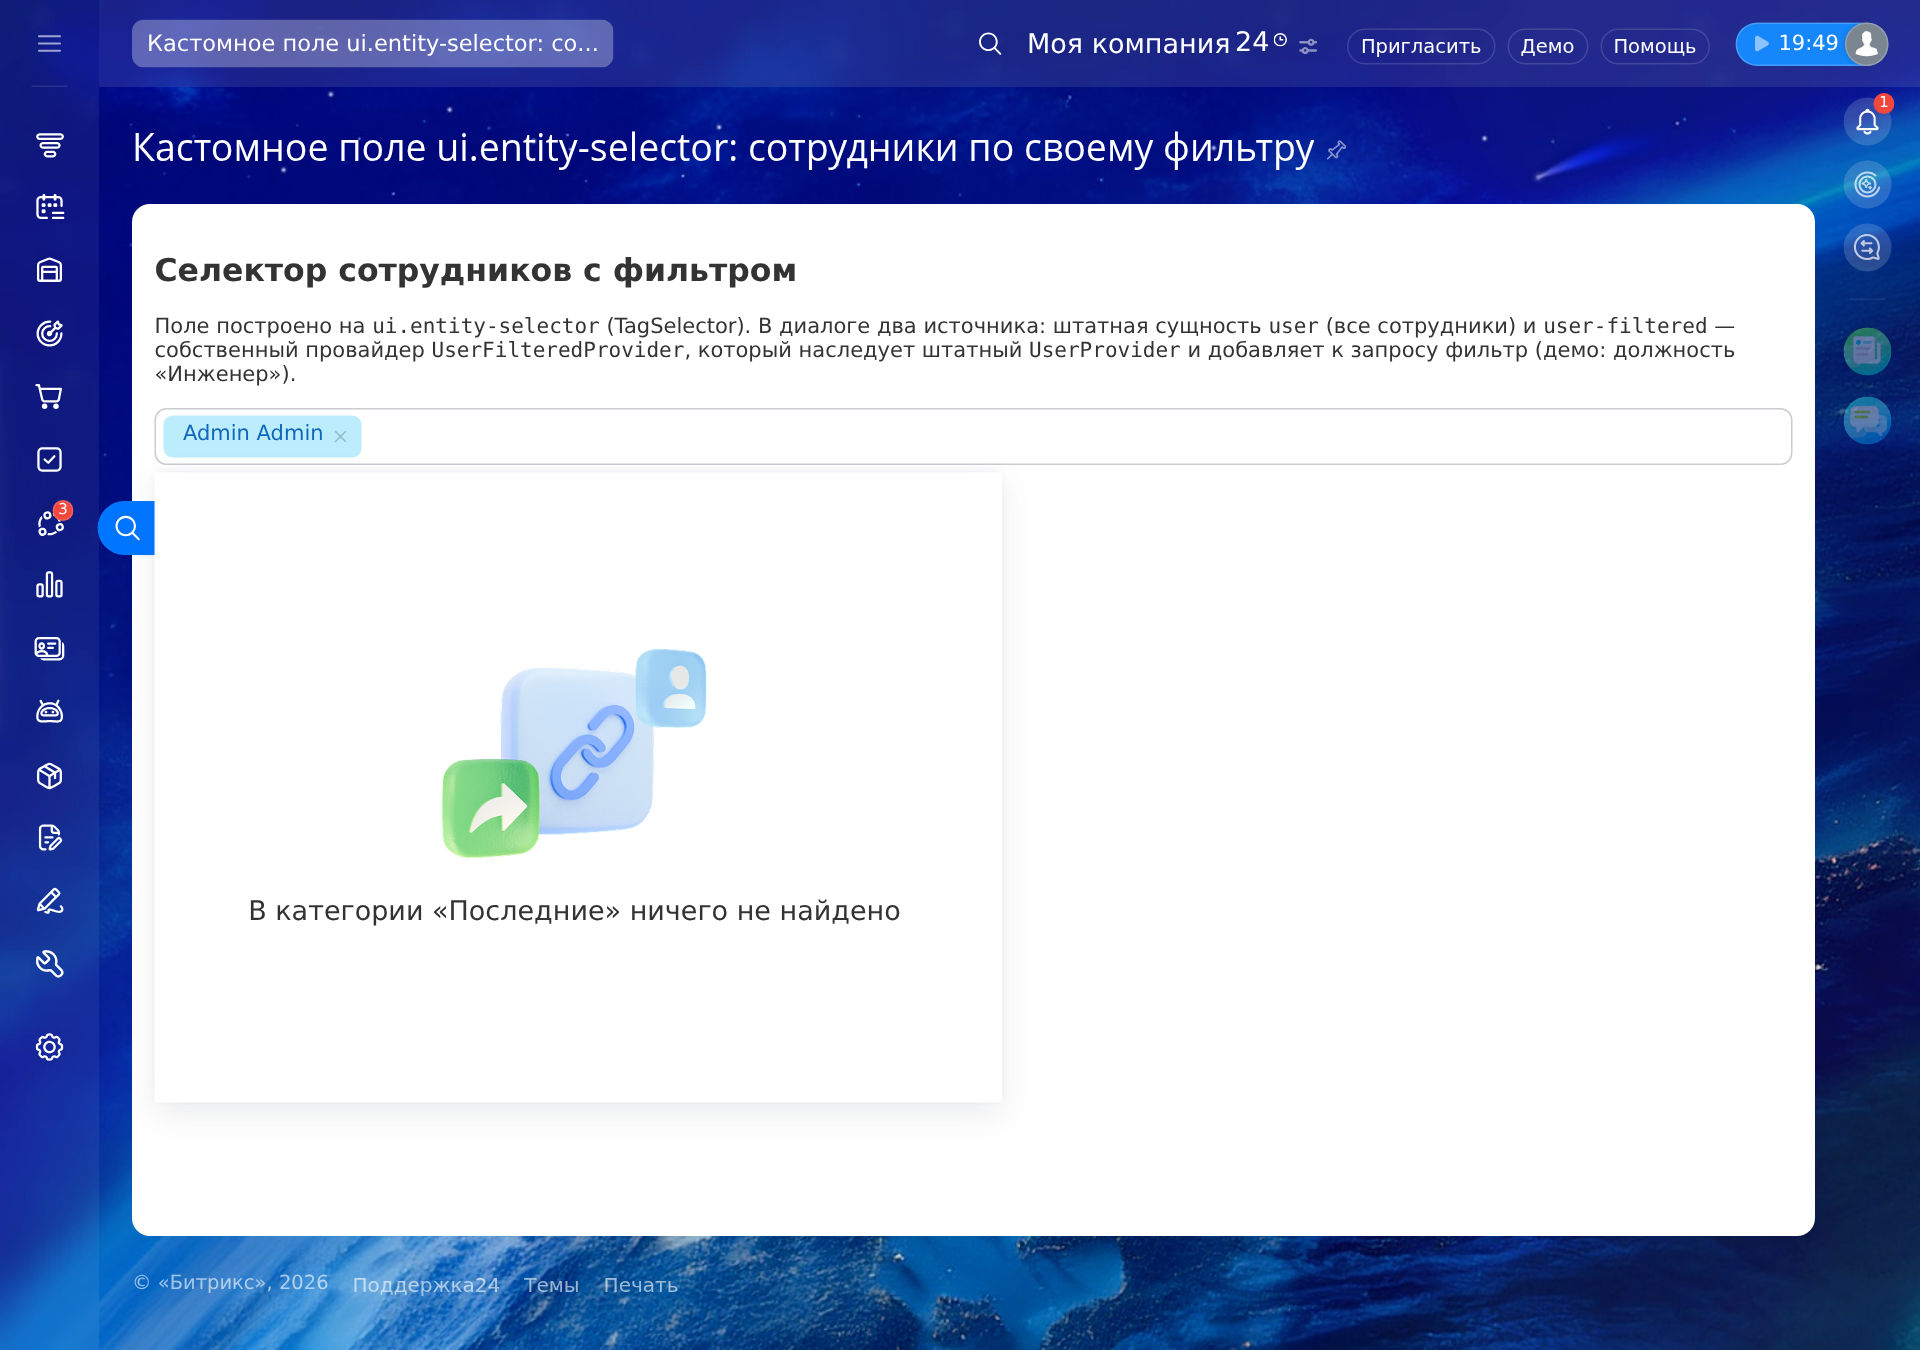
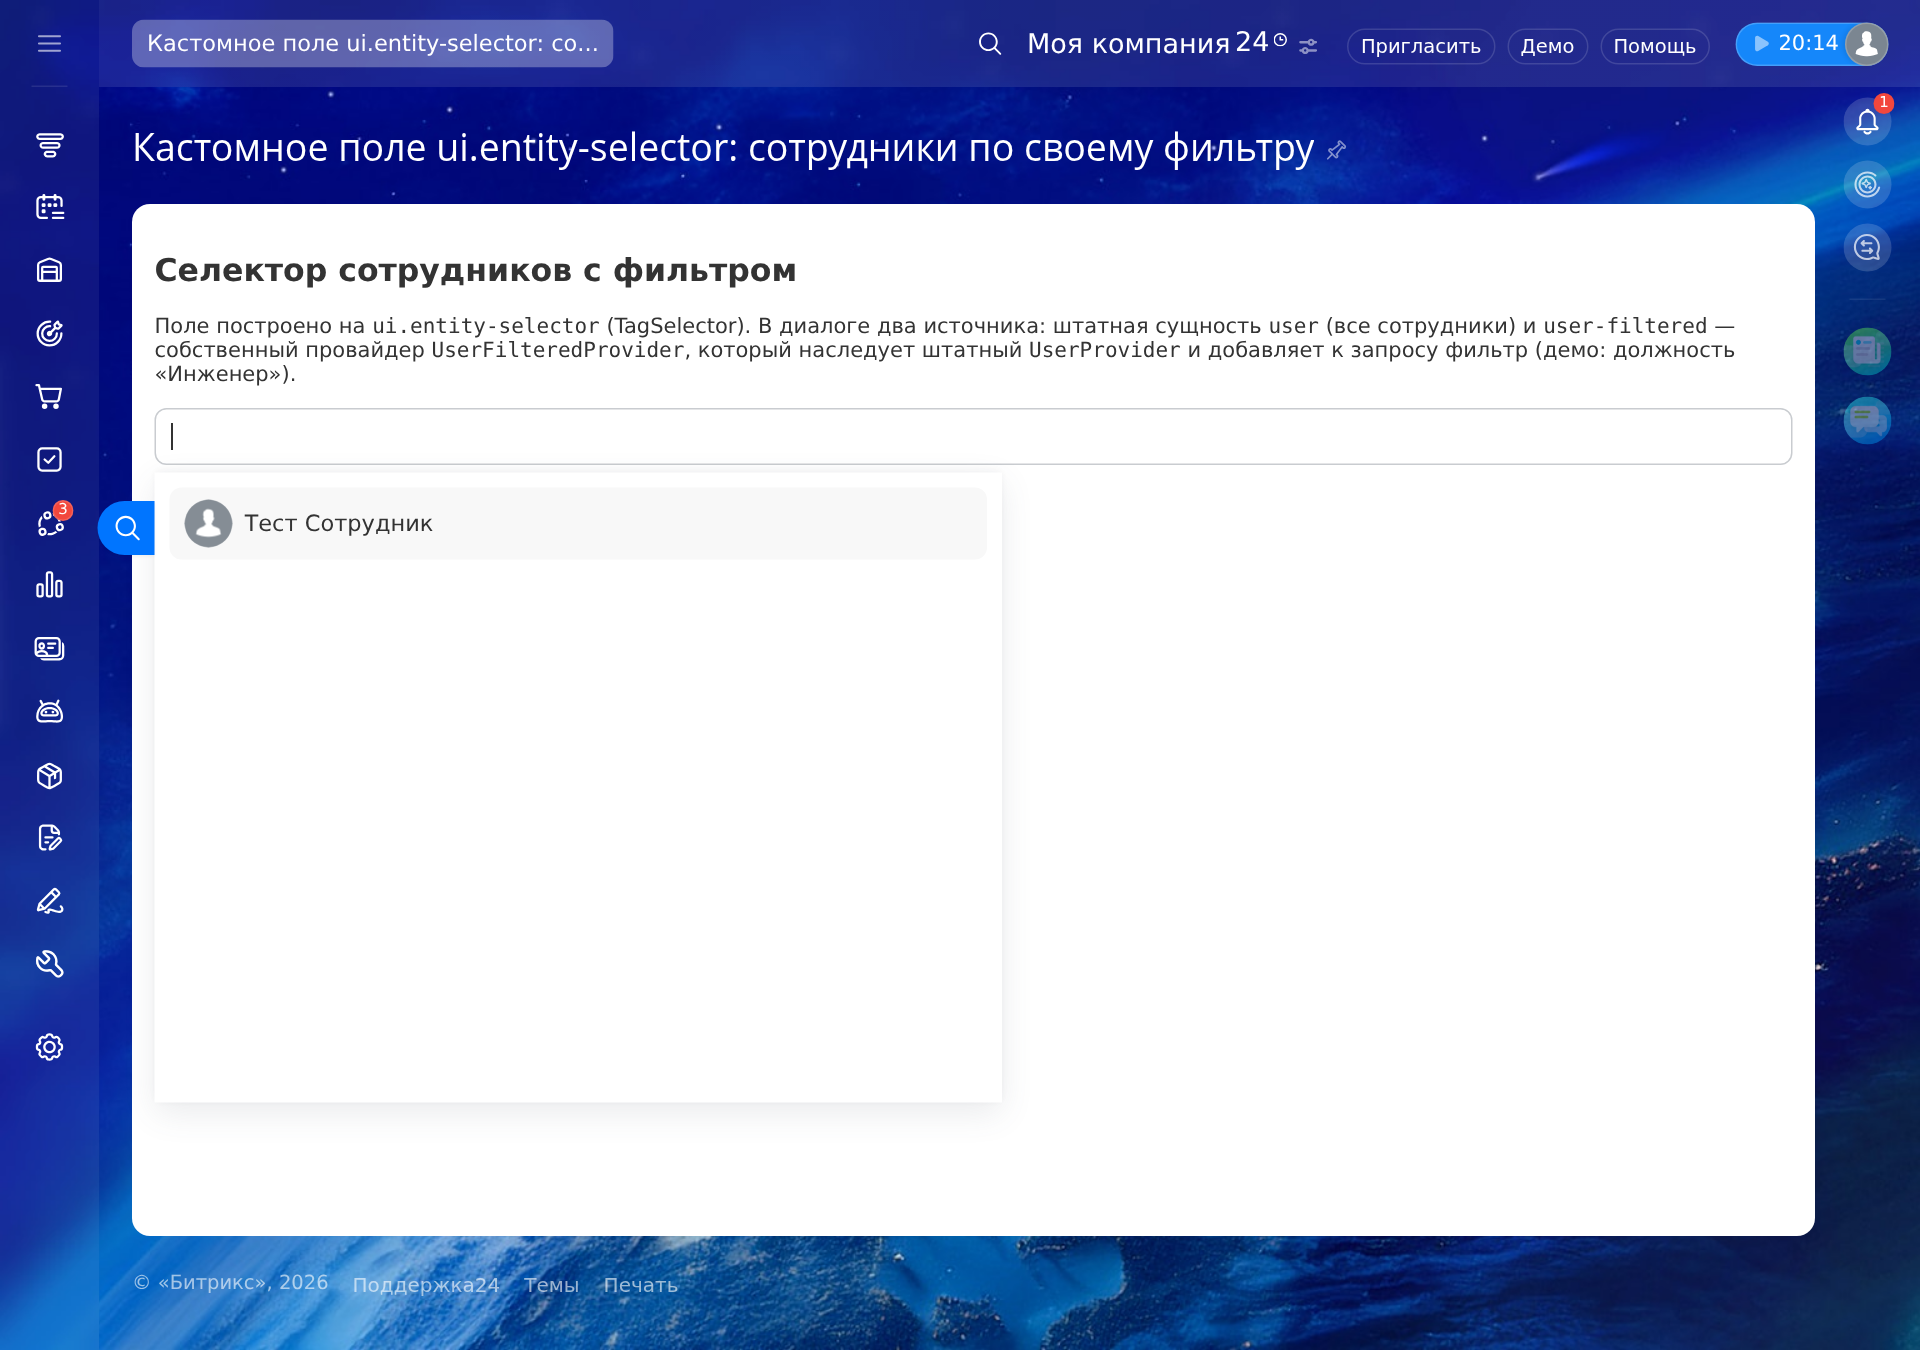
README: скриншот диалога актуализирован (список грузится сразу после фикса)

Changed region(s): [[0.125, 0.4667, 0.4688, 0.6844], [0.0625, 0.28, 0.1875, 0.3422], [0.0938, 0.3733, 0.2188, 0.4044]]

diff --git a/README.md b/README.md
@@ -4,7 +4,7 @@
 
 ## Пример отображения
 
-![Диалог выбора: сущность «Отфильтрованные сотрудники» показывает только сотрудников с должностью «Инженер»](docs/example.png)
+![Диалог выбора: сразу при открытии — только сотрудники с должностью «Инженер» (демо-фильтр провайдера)](docs/example.png)
 
 ## Как это устроено
 
